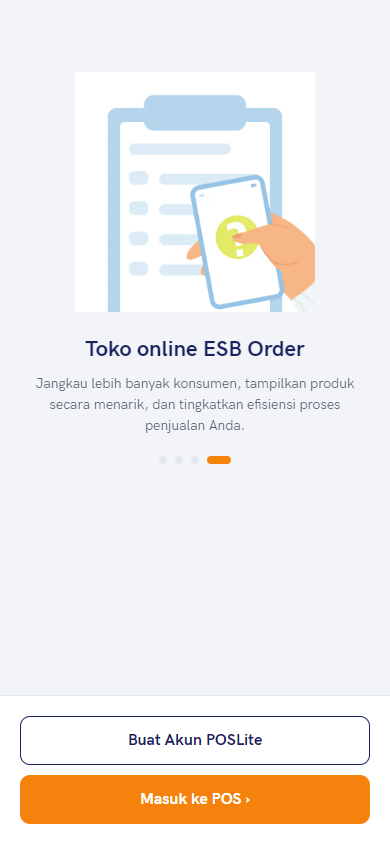
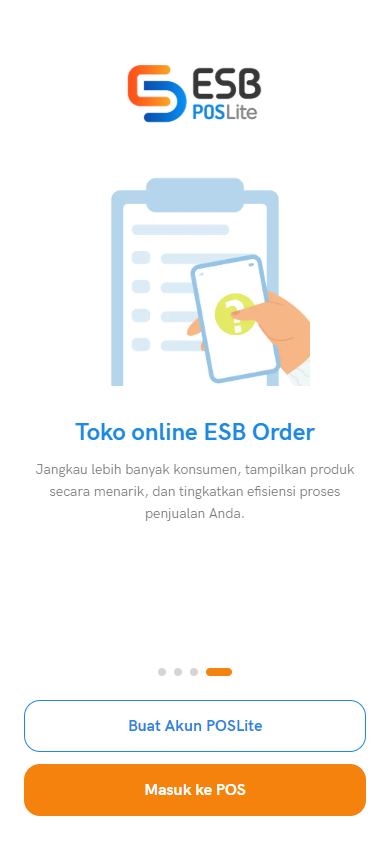
feat: pixel-fix layar tamu 1:1 + guard WS env-custom + rapikan ss-clone
Intro/Login ditulis ulang ikut foto asli (logo, kartu opsi, input berlabel, tombol); Install/SelectBranch/Progress/CreatePin dipoles. WS display+realtime hanya tersambung di env Custom (jangan dial infra pihak ketiga). Hapus 10 PNG warisan di luar konvensi; ss-clone = phone|tablet-<Route> + IntroLast. Bukti check.sale.cjs. tsc EXIT 0.

diff --git a/src/lib/display.ts b/src/lib/display.ts
@@ -4,7 +4,7 @@
  * Implementasi orisinal best-effort: pelanggan lokal selalu sinkron antar
  * layar; dorong WS dicoba bila URL WS terkonfigurasi, gagal diam-diam.
  */
-import { getTerminal, getWsUrl } from '../config/server';
+import { getServerEnv, getTerminal, getWsUrl } from '../config/server';
 
 export type DisplayEvent =
   | { type: 'call'; ticket: string }
@@ -35,6 +35,9 @@ function emitLocal(e: DisplayEvent): void {
 
 function ensureSocket(): void {
   try {
+    // Hanya ke server milik sendiri (env Custom). Env bawaan menunjuk
+    // infrastruktur pihak ketiga — jangan dial tanpa kredensial merchant.
+    if (getServerEnv() !== 'custom') return;
     if (socket) return;
     const url = getWsUrl();
     if (!url) return;

diff --git a/src/lib/realtime.ts b/src/lib/realtime.ts
@@ -4,7 +4,7 @@
  * Murni JS — jalan di Expo Go maupun dev-client. Di background Android,
  * pasang dengan ForegroundService dari modul native (modules/genfity-printer).
  */
-import { getWsUrl, getBaseUrl } from '../config/server';
+import { getServerEnv, getWsUrl, getBaseUrl } from '../config/server';
 
 export type WsMessage = { type: string; payload: Record<string, unknown> };
 export type WsHandler = (msg: WsMessage) => void;
@@ -52,6 +52,8 @@ function backoff(retry: number): number {
 }
 
 function connect(ch: Channel): void {
+  // Hanya ke server milik sendiri (env Custom) — jangan dial ketiga.
+  if (getServerEnv() !== 'custom') return;
   const url = ch.url();
   if (!url) return;
   try {

diff --git a/DOKUMENTASI.md b/DOKUMENTASI.md
@@ -53,8 +53,11 @@ Total route terdaftar: **55** (`src/navigation/types.ts`) — termasuk WebView +
   `login*.png`, `apk-*.png` (10 bukti emulator: intro, registrasi, web-login).
 - `docs/ss-clone/` — screenshot **hasil clone RN** (driver
   `verify/shot.two.cjs`, `EXPO_PUBLIC_NAV_HOOK=1`): `phone-<Route>.png` +
-  `tablet-<Route>.png`, 55 route × 2.
-- Folder lama `docs/ss-clone/` (nama `01-34`, `apk-*` campur) sudah dihapus —
+  `tablet-<Route>.png`, 55 route × 2. Tepat 110 file + pasangan
+  `phone|tablet-IntroLast.png` (halaman akhir onboarding) — tidak ada nama
+  lain; file warisan di luar konvensi (`BillSplit`, `MemberDeposit`,
+  `PrintersEsc`, `RecapPhoto`, `TablesMove`) sudah dihapus Okt 2026.
+- Folder lama `docs/shots/` (nama `01-34`, `apk-*` campur) sudah dihapus —
   duplikatnya (`09-booking`=`11-booking-fix`, `07-history`=`12-history-fix`)
   juga dibuang. Jangan bikin folder screenshot baru.
 - `verify/final/` — 19 screenshot final phone+tablet (cashier, dashboard,
@@ -191,6 +194,8 @@ Yang **belum ada di RN** (prioritas):
 | `tsc --noEmit` gagal karena folder tooling tak-terlacak (`rea-tool/`, `reap/`, `emu/`, `stub/`) ikut dikompilasi | ✅ Okt 2026: `tsconfig.json` exclude 4 folder tsb (file tetap ada, tak dihapus); tsc EXIT 0 |
 | Lint (baru dipasang via `npx expo lint`): timer EDC/QRIS set-state sinkron di effect | ✅ Okt 2026: pola timeout-callback di `EdcScreen` + `QrisScreen`; lint 0 error (9 warning unused-var lama) |
 | Payment lanjutan + web-view + display sync belum ada | ✅ Okt 2026 (gabungan dua pekerja paralel): `src/lib/payments.ts` (transfer/deposit/kompliment/nonsales + outbox + email-validation), `src/lib/supervisor.ts` (otorisasi server, fail-closed offline, tanpa simpan PIN), `ExtraPaySection` di Pay + tab Pluxee/Ultra, tombol Email di Receipt + History (`sales/receipt-email` via outbox), route `WebView` (registrasi web dari Install), `src/lib/display.ts` (bus lokal + WS best-effort) dipakai CustomerDisplay; bukti `docs/ss-clone/phone|tablet-{Pay,Receipt,CustomerDisplay,Install,WebView}.png` |
+| Aplikasi mendial WS prod pihak ketiga saat start (bukti: cek DOM, 403/404 console) | ✅ Okt 2026: `display.ts` + `realtime.ts` hanya connect saat env Custom; bukti ulang `verify/check.sale.cjs` = console 0 error |
+| Tier-penuh order/finish belum terkirim (hanya ringkasan) | ✅ Okt 2026: `buildSalePayload` + rantai Cashier→CartDetail→Pay bawa item; bukti `SALE_OK` (Tunai 66000, 2 item, payments, tanpa data sensitif) via `verify/check.sale.cjs` |
 | Backend milik sendiri belum ada acuannya | ✅ Okt 2026: `docs/API-CONTRACT.md` v1 — konvensi, 11 grup endpoint + WS display + contoh tempel; klien diselaraskan (`apiPost` kirim X-Terminal-Code/X-Branch-Id/Idempotency-Key/Bearer, outbox sertakan `clientId`, supervisor pakai `auth/supervisor-approve`) |
 | Tautan Pratinjau Bill di CartDetail belum terbukti piksel (keranjang kosong di driver) | ✅ Okt 2026: driver `PARAMS.CartDetail` kini kirim 2 item; DOM cek `verify/check.cart.cjs` = item tampil + tautan ada + console 0 error + klik sampai BillPreview; bukti `docs/ss-clone/phone|tablet-CartDetail.png` |
 | 3 route orphan tanpa inbound (CustomMenu, BillPreview, Booking — aturan AGENTS.md #6) | ✅ Okt 2026: tombol Custom di toolbar Kasir → CustomMenu, tautan Pratinjau Bill di CartDetail → BillPreview, kartu Booking di menu Dashboard → Booking; semua 55 route kini terjangkau (Intro via awal, sisanya via navigate/go terverifikasi grep); bukti `docs/ss-clone/phone-{Cashier,Dashboard}.png` + `tablet-{Cashier,Dashboard,Booking,CustomMenu,BillPreview}.png` |

diff --git a/docs/REA-poslite-dossier.md b/docs/REA-poslite-dossier.md
@@ -118,18 +118,21 @@ Customer display: 2 file (routes + display; sekunder via presentation_displays).
   no_terminal_code.png, customer_display_qris_background…), beep.wav.
 - i18n country_code_picker (id.json ada). Tema/warna: lihat share-dec/res/values.
 
-## 8. Status rebuild (2026-10-16)
+## 8. Status rebuild (2026-10-16, sesi Gas-2)
 
-- Fondasi Expo (App.tsx + 38 layar + aset webp + font HKGrotesk + harness
-  screenshot web `verify/shot.two.cjs`) sudah ada dari sesi sebelumnya.
-- Fondasi data: `src/lib/storage.ts` (AsyncStorage), `src/lib/db.ts`
-  (expo-sqlite, subset inti 97 tabel), sync.ts/server.ts/session.ts tanpa
-  localStorage.
-- Layar baru: SplitBill, MoveItems, MoveTable, PromotionList,
-  TopupDeposit, PettyCash(+Form+Detail), Expense, MenuPrinting, Stock,
-  TableTimer, Sync, Log, About, Help, MenuManagement, Idle.
-- Verifikasi: `npx tsc --noEmit` + screenshot phone+tablet per layar di
-  docs/shots/ dibanding emulator.
+- App Expo: 55 route terdaftar (`src/navigation/types.ts`), tsc EXIT 0.
+- Lapisan native JS: `src/native/printer.ts` (LAN TCP murni JS; BT SPP + USB
+  via modul Kotlin `GenfityPrinter` + config plugin, aktif setelah prebuild +
+  EAS dev-client), `src/native/edc.ts` (intent APOS BCA), kamera QR
+  (expo-camera) + foto expense (kamera-dulu).
+- Realtime + push: `src/lib/realtime.ts` (WS device + self-order, heartbeat,
+  backoff), `src/lib/push.ts` (token Expo + `register-push` + notif lokal).
+- Kontrak BE: `docs/API-CONTRACT.md` v2 (host, envelope, install/PIN,
+  pull 11 grup, push, voucher, OTA, WS JSON, push-register).
+- Bukti visual: `docs/ss-poslite/` (APK asli) + `docs/ss-clone/`
+  (`phone|tablet-<Route>.png`, 55 route × 2 + IntroLast); folder lama
+  `docs/shots/` dihapus. Pixel-fix 6 layar tamu (Intro cs) oleh agen
+  paralel — vonis 1:1 final di `DOKUMENTASI.md` §1.
 
 ## 10. Lampiran A — Route map + label ID (dari agen UI)
 

diff --git a/docs/API-CONTRACT.md b/docs/API-CONTRACT.md
@@ -220,7 +220,7 @@ layar update + unduh APK dari `data[].apkUrl` (tambahkan key `apkUrl` di BE Anda
 
 ## 7. WebSocket (realtime)
 
-Dua channel [FAKTA], reconnect otomatis + heartbeat 30 dtk (lihat
+Aturan koneksi [KONTRAK]: kedua channel + bus display HANYA tersambung saat env server = Custom (milik sendiri); env bawaan = mode lokal, aplikasi tidak pernah mendial infrastruktur pihak ketiga tanpa kredensial merchant. Dua channel [FAKTA], reconnect otomatis + heartbeat 30 dtk (lihat
 `src/lib/realtime.ts`).
 
 ### 7.1 Device channel — `WS_URL`
